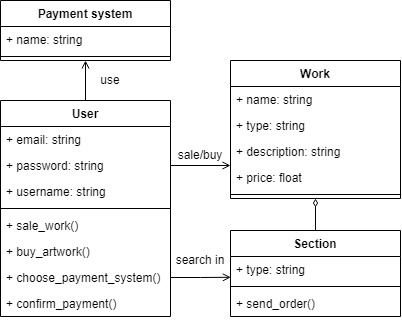
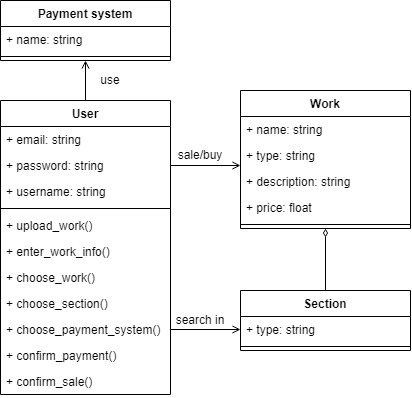
Update some files

Changed region(s): [[0.0, 0.0, 1.0, 1.0], [0.5672, 0.9375, 0.806, 1.0], [0.0, 0.6875, 0.2388, 0.7188]]

diff --git a/2-SoftwareDesign/2.6-ProgramMethodPrototypes/Readme.md b/2-SoftwareDesign/2.6-ProgramMethodPrototypes/Readme.md
@@ -1,0 +1,9 @@
+|FR|Опис вимоги|Назва класу|Назва методу класу|
+|-|-|:-:|:-:|
+|FR1.1|Покупець обирає потрібний розділ на сайті|User|choose_section()|
+|FR1.2|Покупець натискає на роботу яка йому подобається|User|choose_work()|
+|FR1.3|Покупець обирає систему оплати|User|choose_payment_system()|
+|FR1.4|Покупець підтверджує оплату|User|confirm_payment()|
+|FR2.1|Художник завантажує роботу на сайт|User|upload_work()|
+|FR2.2|Художник вносить інформацію о роботі|User|enter_work_info()|
+|FR2.3|Художник підтверджує виставлення роботи на продаж|User|confirm_sale()|
